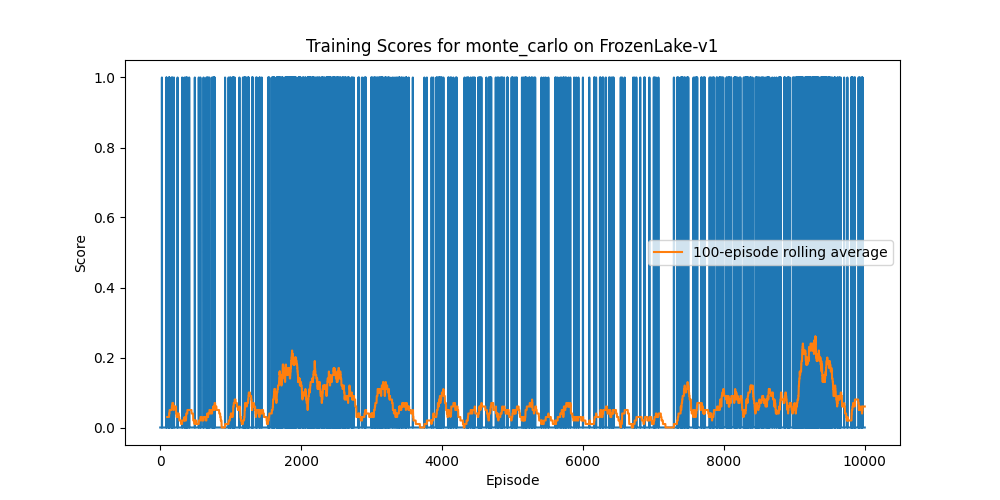
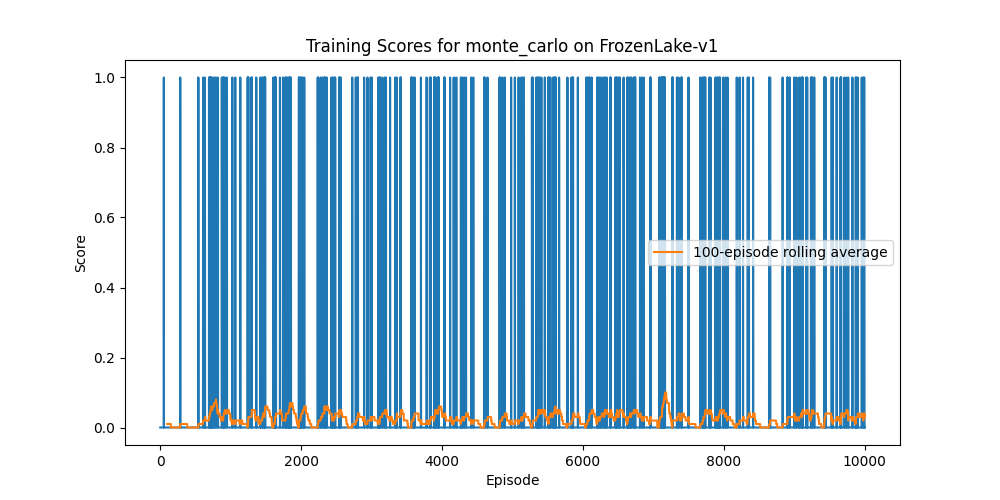
Exponential decay

Changed region(s): [[0.155, 0.15, 0.868, 0.87]]

diff --git a/src/monte_carlo.py b/src/monte_carlo.py
@@ -6,13 +6,17 @@ class MonteCarlo(BaseAgent):
     def __init__(self, 
                  state_dim, 
                  action_dim, 
-                 learning_rate=0.1, 
+                 learning_rate=0.1,
+                 lr_decay=0.995,
+                 lr_min=0.001, 
                  gamma=0.99, 
                  epsilon=1.0, 
                  epsilon_decay=0.995, 
                  epsilon_min=0.01):
         self.q_table = np.zeros((state_dim, action_dim))
         self.lr = learning_rate
+        self.lr_decay = lr_decay
+        self.lr_min = lr_min
         self.gamma = gamma
         self.epsilon = epsilon
         self.epsilon_decay = epsilon_decay
@@ -33,6 +37,7 @@ class MonteCarlo(BaseAgent):
             new_value = old_value + self.lr * (G - old_value)
             self.q_table[state, action] = new_value
         
+        self.lr = max(self.lr_min, self.lr * self.lr_decay)
         self.epsilon = max(self.epsilon_min, self.epsilon * self.epsilon_decay)
 
     def save(self, path):
